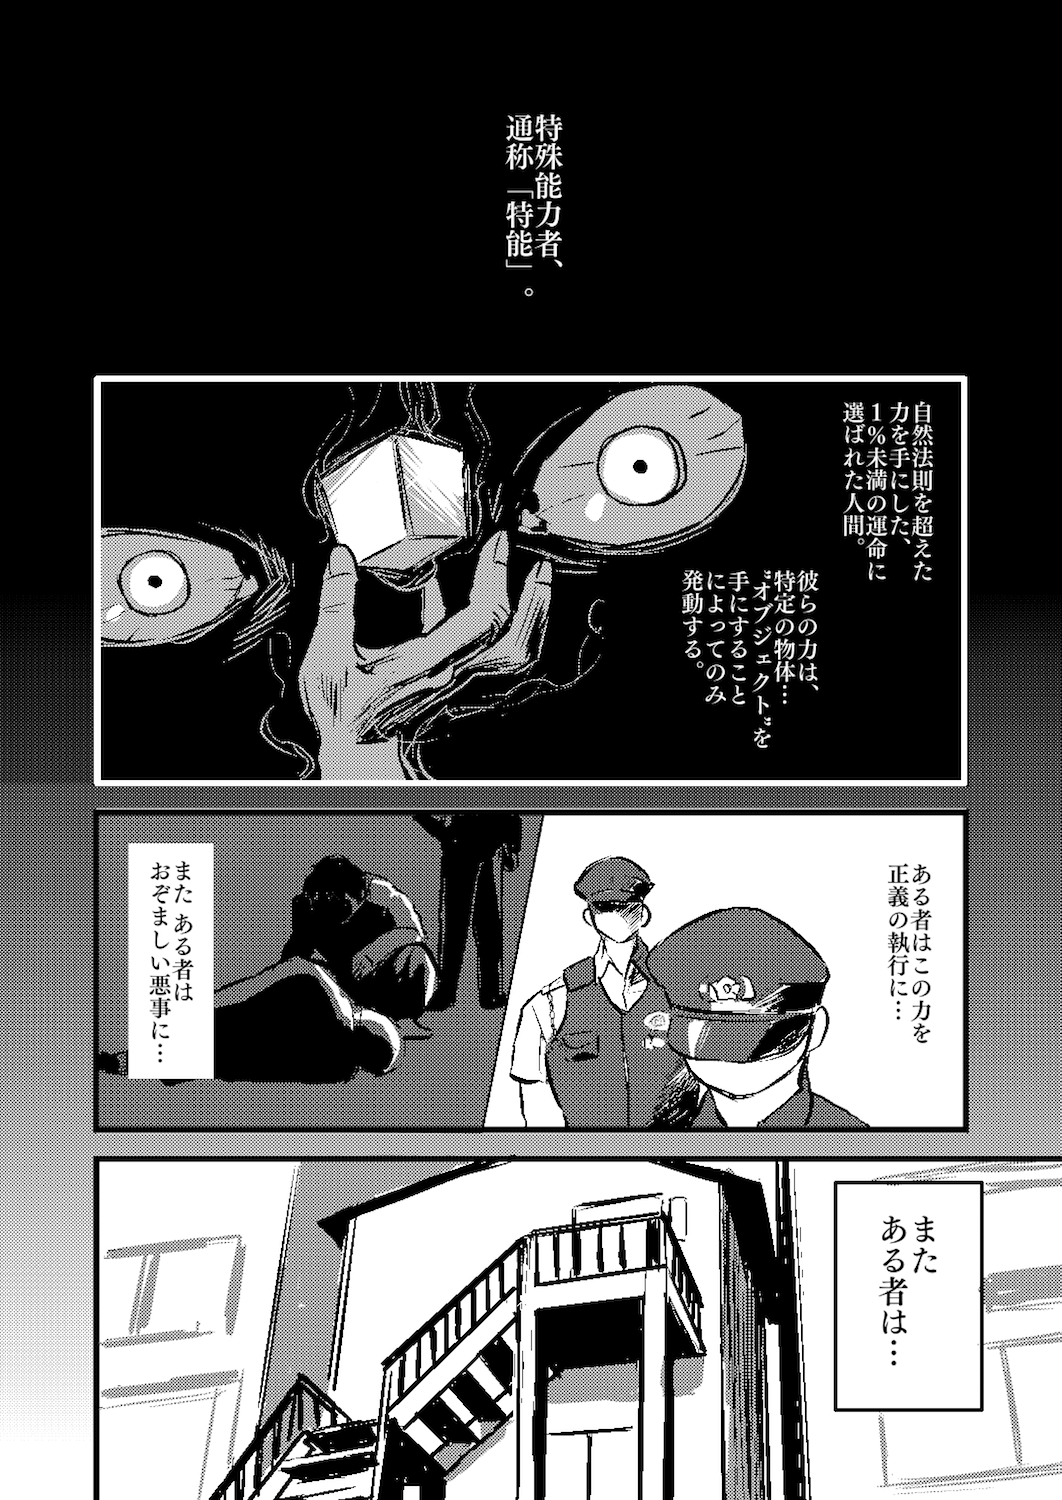
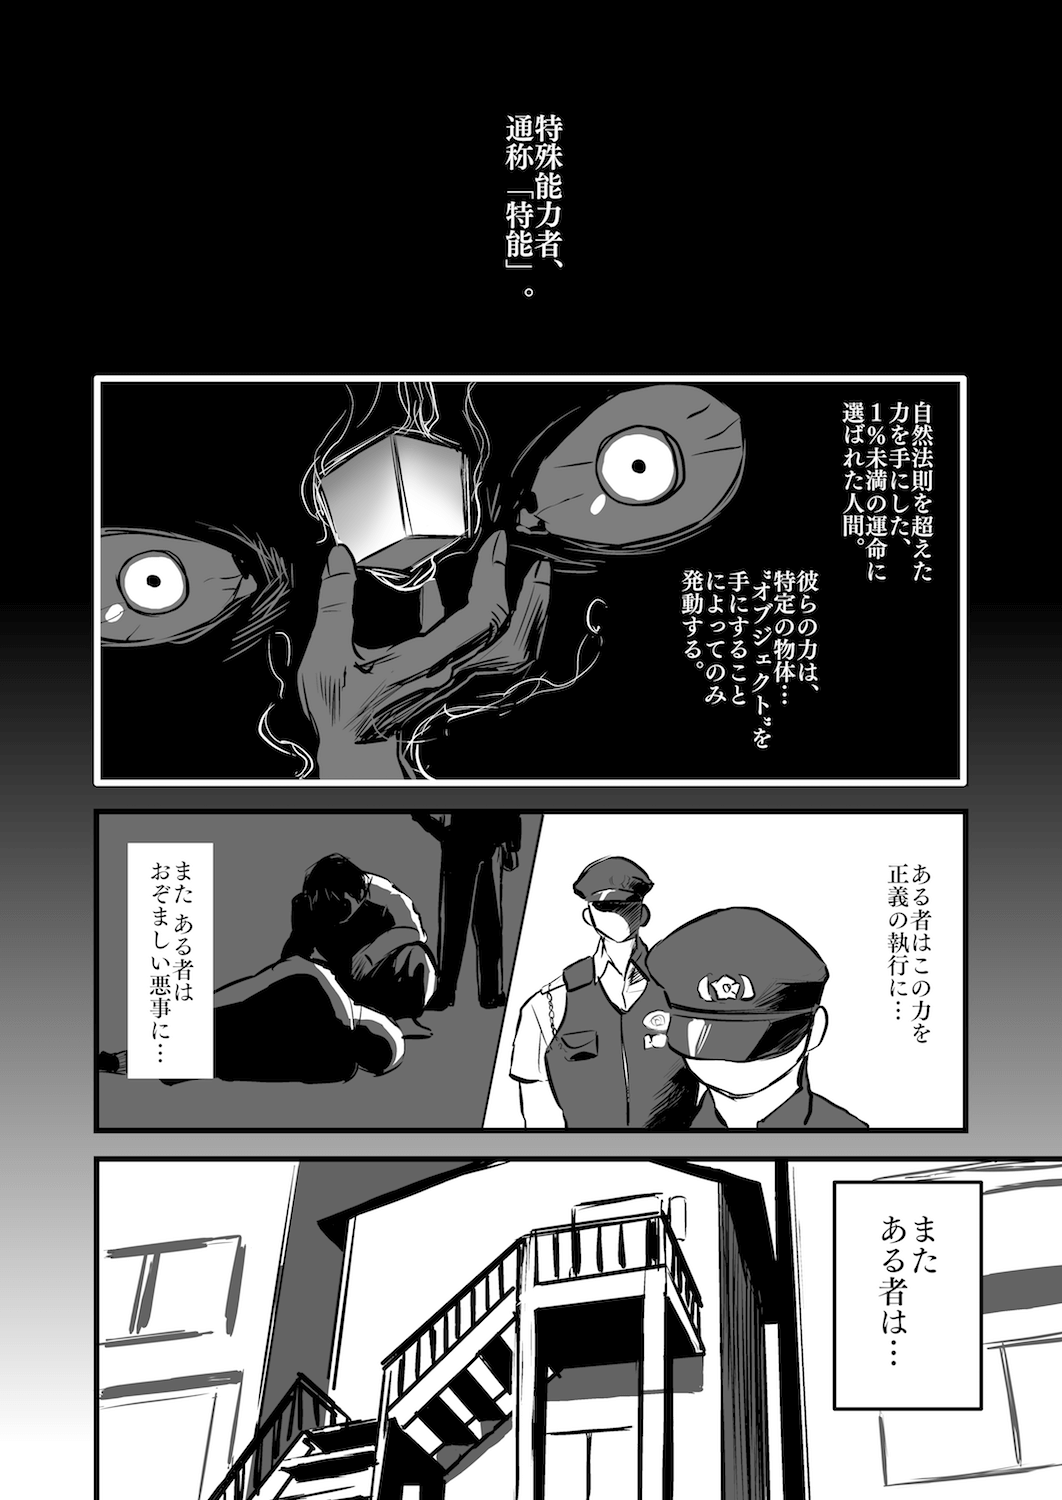
Replace HEJI #1-1 to grayscale ver

diff --git a/index.html b/index.html
@@ -376,7 +376,7 @@
                                                 <img alt="2019.8.29 千和 彼のヒト、彼のヒカリ" src="img/20190829-chikazu.png" />
                                                 <figcaption>
                                                     <div class="date">2019.08.29</div>
-                                                    <div class="caption">闇に映える千和の姿。本田千和編#1はリライト予定です。</div>
+                                                    <div class="caption">闇に映える千和の姿。</div>
                                                 </figcaption>
                                             </figure>
                                         </label>

diff --git a/episode/heji/heji1-1.html b/episode/heji/heji1-1.html
@@ -92,7 +92,8 @@
                         2018.12.31　Pixiv、PictBLand 初版公開<br>
                         2019.03.31　Pixiv、PictBLand 第２版差し替え<br>
                         2019.06.01　FANG：戸次信長編vol.１ 第２版収録<br>
-                        2019.08.19　FANG公式サイト 第２版掲載
+                        2019.08.19　FANG公式サイト 第２版掲載<br>
+                        2019.09.25　FANG公式サイト 第３版掲載
                     </div>
                 </section>
             </main>
